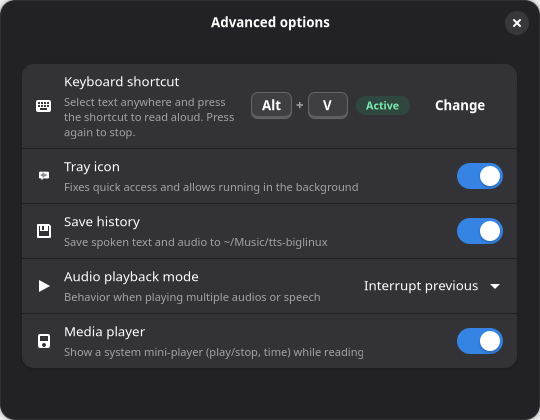
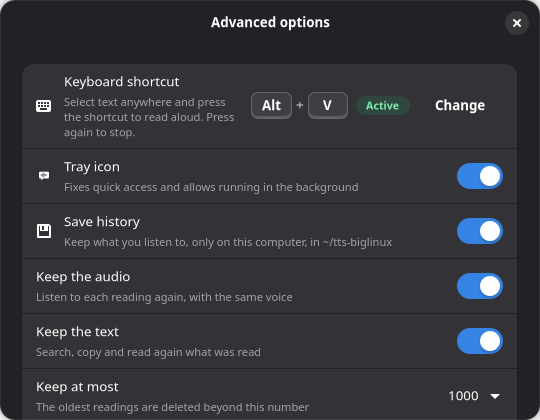
docs: History in the README — what is kept per engine, recovery, safe deleting
New History and Advanced options screenshots; test count.

diff --git a/README.md b/README.md
@@ -17,7 +17,7 @@
   <img src="https://img.shields.io/badge/Python-3.10+-yellow.svg" alt="Python">
   <img src="https://img.shields.io/badge/engines-4-red.svg" alt="4 TTS engines">
   <img src="https://img.shields.io/badge/languages-30-lightgrey.svg" alt="30 languages">
-  <img src="https://img.shields.io/badge/tests-222-success.svg" alt="222 tests">
+  <img src="https://img.shields.io/badge/tests-262-success.svg" alt="262 tests">
 </p>
 
 ---
@@ -126,7 +126,7 @@ BigLinux TTS was born from a practical need: making text-to-speech accessible an
 - **System tray icon** — breathes (opacity only) while reading; left-click speaks or stops, right-click offers Pause/Play and Stop while reading, plus Read text, Settings and Quit; the tooltip shows the current shortcut
 - **Notifications** — what is being read, and a clear message when something fails or nothing is selected
 - **Built-in voice test** — text field to type and hear with the current voice settings
-- **Optional history** — every reading that was heard, whatever the engine, is kept and can be replayed (main menu → History, Ctrl+H)
+- **History** — every reading that was heard, with its audio, whatever the engine (main menu → History, Ctrl+H; see [History](#reading-history))
 - **Silent start** — opening the app never speaks and never starts speech-dispatcher
 - **Long texts** — read to the end with any character limit, including *Unlimited*: espeak-ng and Piper stream sentence chunks, Kokoro reads line by line
 
@@ -137,6 +137,26 @@ BigLinux TTS was born from a practical need: making text-to-speech accessible an
 - **Volume** — scale from 0 (mute) to 100 (max)
 - **Voice selection** — list filtered by engine: "Name — Language · Neural / High quality"
 - **Kokoro** — expression presets (neutral, happy, calm, urgent, narrative) and blending with a second voice
+
+### Reading History
+
+Main menu → **History** (Ctrl+H) is always available, also with saving turned off (old readings stay). Saving is on for new installations; settings from earlier versions keep their choice. Advanced options: *Save history*, *Keep the audio*, *Keep the text*, *Keep at most* (100 … 5000 or unlimited).
+
+- **What is kept** for each reading that was actually heard: the text as given and as processed, engine, voice, date and time, duration, outcome (*completed*, *stopped* by the user, or *error* after sound started), and the audio
+- **The audio is the audio that was played**, not a second synthesis:
+
+| Engine | How the audio is kept |
+|--------|-----------------------|
+| RHVoice | `RHVoice-test` writes WAV to stdout; the app passes it to `aplay` and writes the same bytes to the history file |
+| Kokoro | `koko stream` writes one WAV stream to stdout; same relay as RHVoice (koko's own `pipe` mode plays by itself and could not be kept) |
+| espeak-ng, Piper | each WAV chunk is appended to the history file when it starts playing (long texts: one file for the whole reading) |
+| Speech Dispatcher | not a selectable engine since 4.0: speech-dispatcher plays on its own, so its audio could only be captured from the sound server — which this app never does |
+
+- A stopped reading keeps the audio up to the stop (at most a fraction of a second not heard, still in the player's buffer)
+- **The page**: cards with the text (expandable), engine, voice, date, duration and outcome; player; copy, *Read again* with the current voice, *Save audio as…*, open the folder, delete. Search (text, voice, engine, date), filters (all dates, today, yesterday, last 7 days; engine), newest or oldest first, list or grid, multiple selection (save to a folder, delete). New readings appear by themselves; pages of 50 load as you scroll
+- **Safe deleting**: one entry can be undone for 5 seconds; a selection asks first; files go to the **Trash** (restored files come back as entries on the next start)
+- **Recovery**, at every start, off the main thread: entries are rebuilt from the files when the index is damaged (the damaged file is kept as `history.db.damaged-…`), files without an entry come back, a recording interrupted by a crash is finished and kept, durations of older entries are filled in, a legacy `history.json` is migrated once. Nothing saved is ever deleted by the recovery
+- Saving runs in a worker: it never delays the start of speech (first audio measured equal with history on and off) and a failure (full disk, no permission) never stops a reading
 
 ### Voice Manager
 
@@ -430,7 +450,7 @@ biglinux-tts-speak      # What Alt+V runs: biglinux-tts --speak
 | Path | Content |
 |------|---------|
 | `~/.config/biglinux-tts/settings.json` | All app settings (JSON) |
-| `~/Music/tts-biglinux/` | Reading history (`history.db`, SQLite) and saved audio, when enabled — a private folder (mode 0700) |
+| `~/Music/tts-biglinux/` (XDG Music folder) | Reading history: `<time>_<engine>.wav` / `.txt` per reading and the `history.db` index (SQLite) — a private folder (mode 0700) |
 | `~/.local/share/biglinux-tts/kokoro-voices/voices.bin` | Kokoro voices downloaded by the user (system base voices + downloads) |
 | `$XDG_RUNTIME_DIR/biglinux-tts/koko/` | Kokoro scratch audio (private, temporary) |
 | `~/.local/share/applications/biglinux-tts-speak.desktop` | Launcher bound to the global shortcut |
@@ -470,7 +490,7 @@ biglinux-tts-speak      # What Alt+V runs: biglinux-tts --speak
     "maximized": false
   },
   "history": {
-    "enabled": false,
+    "enabled": true,
     "save_audio": true,
     "save_text": true,
     "playback_mode": "interrupt",
@@ -641,12 +661,14 @@ python3 scripts/sync_translations.py --check
 python3 scripts/benchmark_tts.py
 ```
 
-222 Python tests and 4 Rust tests cover, among others:
+262 Python tests and 4 Rust tests cover, among others:
 
 | Area | Tests |
 |------|-------|
 | Request lifecycle | `test_tts_lifecycle.py` — a fake `koko` process: LOADING → SPEAKING → IDLE, sticky errors, crashes reported, stop while loading, huge texts never block |
-| Streaming, history, simultaneous | `test_tts_streaming.py` — every chunk played in order, at most two chunk files, Stop mid-stream, history for RHVoice/espeak-ng/Kokoro, nothing recorded when off or stopped, Stop reaches simultaneous readings |
+| Streaming and history | `test_tts_streaming.py` — chunks in order, at most two chunk files, Stop mid-stream; every engine records text and the audio played (exact duration), long streamed readings keep all chunks, stopped/error outcomes, nothing when not heard or off, simultaneous and sequential readings as separate entries, no permission never breaks a reading |
+| History recovery | `test_history_recovery.py` — restart, orphan files, damaged index rebuilt, crash recordings, missing audio, legacy JSON once, schema upgrade, Trash, filters/search/paging, no overwrite, unwritable folder |
+| History page and entry points | `test_history_view.py` (cards, filters, paging, empty states, saving off, live refresh, Undo, confirmation, menu), `test_entry_points_history.py` (shortcut/tray, media Play key, queue mode) |
 | Text | `test_text_rules.py`, `test_text_numbers.py`, `test_special_chars.py`, `test_chunking.py`, `test_koko_text.py` |
 | Translations | `test_i18n.py` — parser, GNU language precedence, real catalogs, every string extractable by `xgettext`, complete Portuguese catalogs |
 | Interface | `test_ui_states.py` — card states, shortcut keys and conflicts, engine status, saved voice kept, sidebar |
